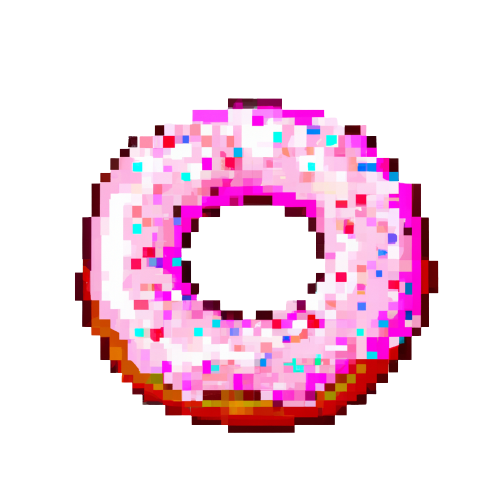
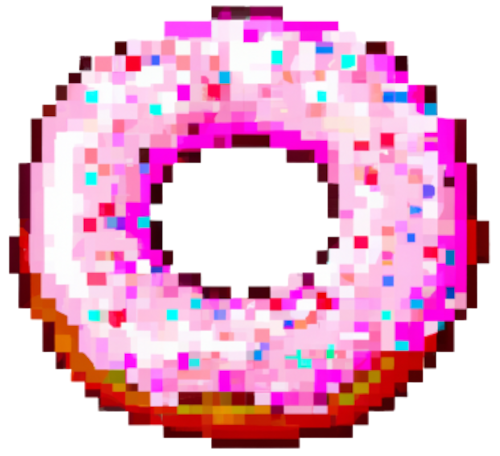
rotation

diff --git a/cookie-clicker/style.css b/cookie-clicker/style.css
@@ -125,7 +125,17 @@
     height: 500px;
     grid-column: 1/5;
     grid-row: 3;
-  }
+    animation: rotation 10s linear infinite;
+   }
+   @keyframes rotation {
+    0% {
+      transform: rotate(0deg);
+    }
+    100% {
+      transform: rotate(360deg);
+    }
+    
+   }
 
   footer {
     grid-column: 1/5;
@@ -133,6 +143,10 @@
     text-align: center;
     font-size: 1.125rem;
     font-family: montserra;
+  }
+  footer a{
+    text-decoration: none;
+    color: #98FF98;
   }
     
 }
@@ -237,9 +251,18 @@
   #donut {
     width: 500px;
     height: 500px;
+    animation: rotation 10s linear infinite;
+  }
+  @keyframes rotation {
+   0% {
+     transform: rotate(0deg);
+   }
+   100% {
+     transform: rotate(360deg);
+   }
    
   }
-
+  
   footer {
     grid-column: 1/5;
     grid-row: 4;

diff --git a/cookie-clicker/index.html b/cookie-clicker/index.html
@@ -3,7 +3,7 @@
   <head>
     <meta charset="UTF-8" />
     <link rel="stylesheet" href="style.css">
-    <link rel="icon" type="image/png" href="img/donut-icon.png">
+    <link rel="icon" type="image/png" href="img/Donut-icon.png">
     <meta name="viewport" content="width=device-width, initial-scale=1.0" />
     <meta name="description" content="game donut-clicker">
     <!--Désactivation clic droit-->

diff --git a/README.md b/README.md
@@ -102,7 +102,7 @@ Votre clicker de cookie doit être joli, donnez-lui une belle apparence avec CSS
 Nous avons decidé de faire un **Donut Clicker** 
 
 
-Le donut à été généré avec [Dall-E](https://labs.openai.com/ "Dall-E")
+Le donut à été généré avec [Dall-E](https://labs.openai.com/ "Dall-E") Promp : un donut rose avec des paillettes en pixel-art
 ![Donut](img/Donut_DALL_E_.png)
 
 Le fond en dégrader à été généré avec [Colinkeany](http://www.colinkeany.com/blend/ "Colinkeany")
